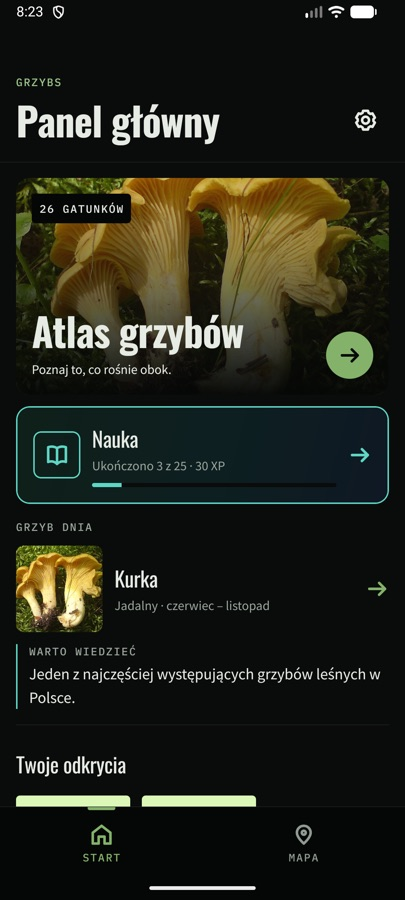
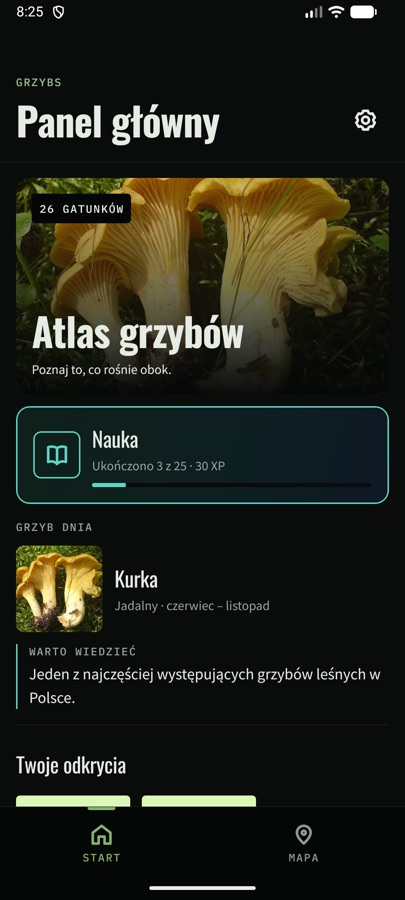
fix: no decorative arrows on cards – Start, settings rows, learning path, spot list
Arrows stay only where they do something: month switching, expanding a section, external links.

diff --git a/src/components/home/HomeDestinations.tsx b/src/components/home/HomeDestinations.tsx
@@ -4,7 +4,6 @@ import { StyleSheet, View } from 'react-native';
 import Svg, { Defs, LinearGradient, Rect, Stop } from 'react-native-svg';
 import { AppText } from '@/components/AppText';
 import { PressableScale } from '@/components/PressableScale';
-import { FieldIcon } from '@/components/icons/FieldIcon';
 import { SPECIES } from '@/data/species';
 import { LearnCard } from './LearnCard';
 import { SPECIES_PHOTOS } from '@/data/speciesPhotos';
@@ -51,9 +50,6 @@ export function HomeDestinations() {
               Poznaj to, co rośnie obok.
             </AppText>
           </View>
-          <View style={[styles.arrow, { backgroundColor: colors.glow }]}>
-            <FieldIcon name="arrowRight" size={layout.icon} color={colors.onGlow} />
-          </View>
         </View>
       </PressableScale>
       <LearnCard />
@@ -78,11 +74,4 @@ const styles = StyleSheet.create({
   },
   heroBottom: { flexDirection: 'row', alignItems: 'flex-end', gap: spacing.sm },
   label: { flex: 1, gap: spacing.xs },
-  arrow: {
-    width: layout.touchTarget,
-    height: layout.touchTarget,
-    borderRadius: radius.pill,
-    alignItems: 'center',
-    justifyContent: 'center',
-  },
 });

diff --git a/src/components/home/DailyDiscovery.tsx b/src/components/home/DailyDiscovery.tsx
@@ -4,7 +4,6 @@ import { StyleSheet, View } from 'react-native';
 import Animated, { FlipInEasyY } from 'react-native-reanimated';
 import { AppText } from '@/components/AppText';
 import { PressableScale } from '@/components/PressableScale';
-import { FieldIcon } from '@/components/icons/FieldIcon';
 import { SPECIES_PHOTOS } from '@/data/speciesPhotos';
 import { EDIBILITY_LABELS } from '@/features/atlas/labels';
 import { formatSeason } from '@/features/atlas/season';
@@ -68,11 +67,6 @@ export function DailyDiscovery() {
                   : 'Dotknij, aby odkryć'}
               </AppText>
             </View>
-            <FieldIcon
-              name={revealed ? 'arrowRight' : 'help'}
-              size={layout.icon}
-              color={colors.glow}
-            />
           </View>
           {revealed && (
             <View style={[styles.fact, { borderColor: colors.aqua }]}>

diff --git a/src/components/map/SpotList.tsx b/src/components/map/SpotList.tsx
@@ -59,7 +59,6 @@ export function SpotList({ spots, busy, onShow, onAdd, onEdit, onDelete }: Props
             <View style={styles.text}>
               <AppText variant="heading">{spot.name}</AppText>
             </View>
-            <AppText color="accent">↗</AppText>
           </PressableScale>
           {spot.note ? <AppText color="textMuted">{spot.note}</AppText> : null}
           <View style={styles.actions}>

diff --git a/src/components/learn/CourseTrailNode.tsx b/src/components/learn/CourseTrailNode.tsx
@@ -79,7 +79,6 @@ export function CourseTrailNode({ step, done, active, width }: Props) {
             <AppText variant="label" color="accent">
               {step.isTest ? 'Rozpocznij test' : 'Ucz się'}
             </AppText>
-            <FieldIcon name="arrowRight" size={spacing.lg} color={colors.glow} />
           </PressableScale>
         )}
       </View>

diff --git a/src/components/settings/SettingsRow.tsx b/src/components/settings/SettingsRow.tsx
@@ -41,7 +41,6 @@ export function SettingsRow({
           {caption}
         </AppText>
       </View>
-      <FieldIcon name="chevronRight" size={spacing.lg} color={colors.textMuted} />
     </PressableScale>
   );
 }

diff --git a/src/components/home/LearnCard.tsx b/src/components/home/LearnCard.tsx
@@ -52,7 +52,6 @@ export function LearnCard() {
           />
         </View>
       </View>
-      <FieldIcon name="arrowRight" size={layout.icon} color={colors.aqua} />
     </PressableScale>
   );
 }
